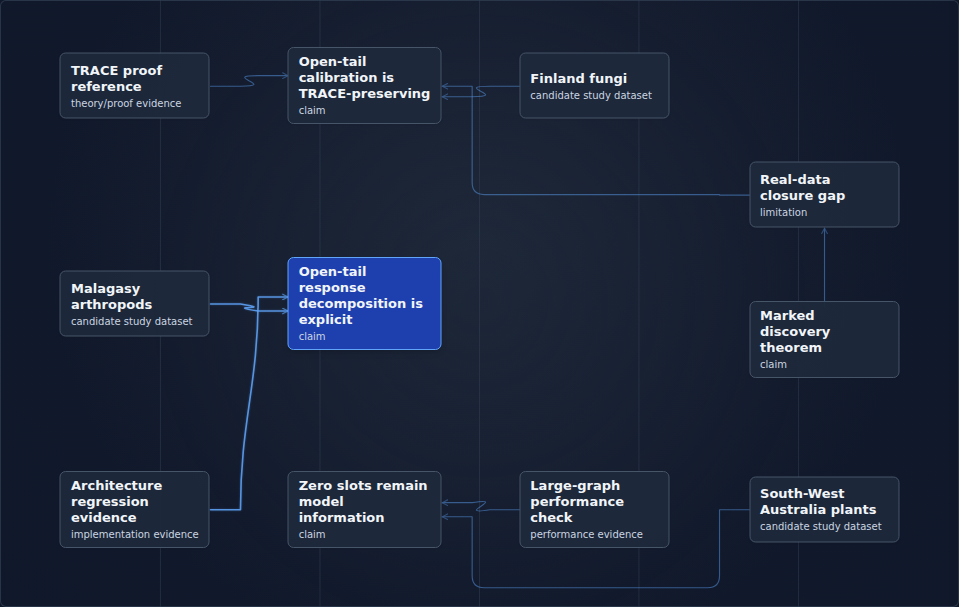
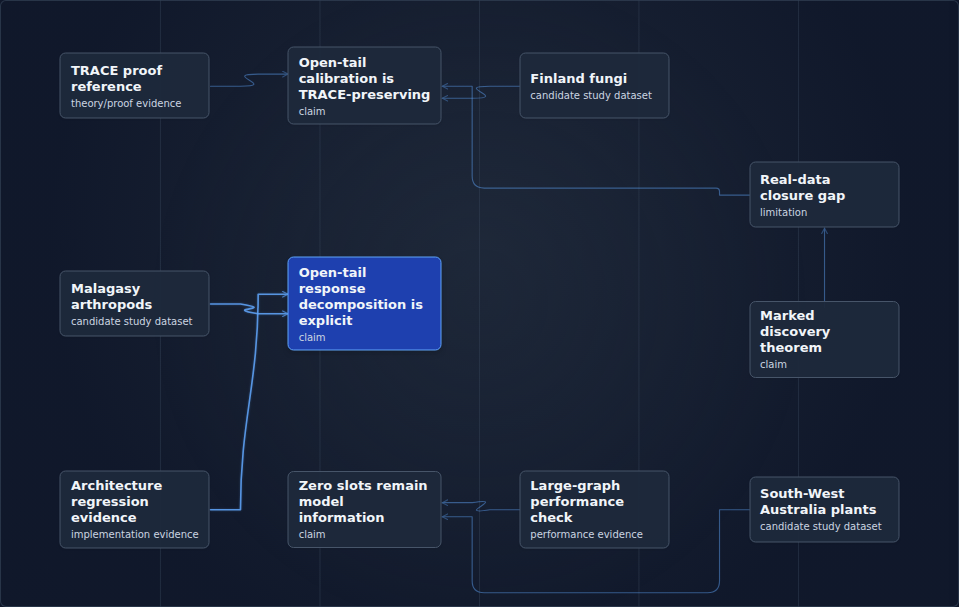
v2.0.0-rc.16

diff --git a/src/architecture/viewProjection.ts b/src/architecture/viewProjection.ts
@@ -135,15 +135,15 @@ function originalTraceSlots(key: string) {
 function evidenceSlots(entityId: string) {
   const slots: Record<string, { left: number; top: number; width?: number; height?: number }> = {
     "entity:evidence:proof:trace-reference": { left: 14, top: 14, width: 150, height: 66 },
-    "entity:evidence:claim:tail-calibration": { left: 38, top: 14, width: 154, height: 68 },
+    "entity:evidence:claim:tail-calibration": { left: 38, top: 14, width: 154, height: 78 },
     "entity:evidence:data:finland": { left: 62, top: 14, width: 150, height: 66 },
     "entity:evidence:limitation:real-data": { left: 86, top: 32, width: 150, height: 66 },
     "entity:evidence:data:malagasy": { left: 14, top: 50, width: 150, height: 66 },
-    "entity:evidence:claim:open-tail-response": { left: 38, top: 50, width: 154, height: 68 },
+    "entity:evidence:claim:open-tail-response": { left: 38, top: 50, width: 154, height: 94 },
     "entity:evidence:claim:marked-discovery": { left: 86, top: 56, width: 150, height: 66 },
-    "entity:evidence:implementation:fixtures": { left: 14, top: 84, width: 150, height: 66 },
+    "entity:evidence:implementation:fixtures": { left: 14, top: 84, width: 150, height: 78 },
     "entity:evidence:claim:zero-slots": { left: 38, top: 84, width: 154, height: 68 },
-    "entity:evidence:stress:g05": { left: 62, top: 84, width: 150, height: 66 },
+    "entity:evidence:stress:g05": { left: 62, top: 84, width: 150, height: 78 },
     "entity:evidence:data:swa-plants": { left: 86, top: 84, width: 150, height: 66 },
   }
   return slots[entityId]

diff --git a/results/asteria_v2_rc16_connector_finish_result.md b/results/asteria_v2_rc16_connector_finish_result.md
@@ -24,6 +24,7 @@ REVIEWER_SCOPE_EXPANDED = NO
 - Changed Lineage multi-relation labels from literal separators to adjacent capsule parts.
 - Removed stable-facing static footer/placeholder legend text from Lineage and Evidence.
 - Applied minimal CAT overview clearance slot tuning for right-column context nodes.
+- Synchronized Evidence card logical heights with rendered text height so connector endpoints terminate on the visible card boundary.
 
 ## Hard Gates
 
@@ -107,9 +108,9 @@ Performance:
 - bench:architecture-g05 entityCount = 2200
 - bench:architecture-g05 relationCount = 6200
 - bench:architecture-g05 visibleProjectionCount = 260
-- bench:architecture-g05 indexAverageMs = 2.366
-- bench:architecture-g05 traceAverageMs = 2.536
-- bench:architecture-g05 layerFocusAverageMs = 3.542
+- bench:architecture-g05 indexAverageMs = 2.348
+- bench:architecture-g05 traceAverageMs = 2.414
+- bench:architecture-g05 layerFocusAverageMs = 3.406
 
 Note:
 
